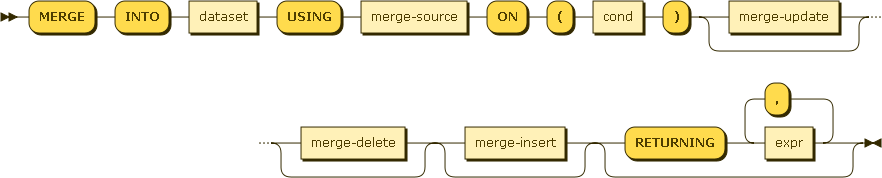
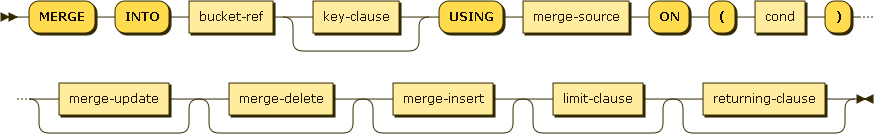
DML syntax targeting Beta / GA.

diff --git a/docs/n1ql-dml.md b/docs/n1ql-dml.md
@@ -1,145 +1,106 @@
-# N1QL&mdash;Query Language for N1NF (Non-1st Normal Form): DML
+# N1QL Query Language&mdash;DML
 
 * Status: DRAFT/PROPOSAL
 * Latest: [n1ql-dml](https://github.com/couchbaselabs/query/blob/master/docs/n1ql-dml.md)
-* Modified: 2013-07-30
+* Modified: 2013-12-15
 
-## Summary
+## Introduction
 
-N1QL is a query language for Couchbase, and is a continuation of
-[UNQL](https://github.com/couchbaselabs/tuqqedin/blob/master/docs/unql-2013.md).
-This document builds on the [N1QL Select
-spec](https://github.com/couchbaselabs/query/blob/master/docs/n1ql-select.md).
+N1QL ("nickel") is the query language from Couchbase. N1QL aims to
+meet the query needs of distributed document-oriented databases. This
+document specifies the syntax and semantics of the data modification
+statements in N1QL.
 
-This document describes the syntax and semantics of the DML statements
-in the language.
+*N1QL* stands for Non-1st Query Language. The name reflects the fact
+that the Couchbase document-oriented data model is based on [Non-1st
+Normal Form
+(N1NF)](http://en.wikipedia.org/wiki/Database_normalization#Non-first_normal_form_.28NF.C2.B2_or_N1NF.29).
 
-dml-stmt:
+## DML statements
+
+N1QL provides several data modification and transaction statements.
+
+*dml-stmt:*
 
 ![](diagram/dml-stmt.png)
 
-## Datasets
+## INSERT
 
-N1QL DML statements allow for mutations of entire documents, and of
-fragments within documents.  As such, N1QL DML statements use
-path-based datasets to identify the data to be mutated.  The dataset
-can be as simple as a bucket name, in which case entire documents will
-be mutated; or as complex as a nested path within each document, in
-which case the actual document fragments identified by the nested path
-will be mutated within each document.
+*insert:*
 
-dataset:
+![](diagram/insert.png)
 
-![](diagram/dataset.png)
+*bucket-ref:*
 
-## Result sets
+![](diagram/bucket-ref.png)
 
-N1QL DML statements are defined to return result sets in the same
-format as the SELECT statement.  If no RETURNING clause is specified,
-the result set is the empty array.  If a RETURNING clause is
-specified, it defines the fields of the JSON objects in the result
-set.
+*bucket-name:*
 
-## UPDATE
+![](diagram/bucket-name.png)
 
-The UPDATE statement has two additional clauses: UNSET and RENAME.
+*key-clause:*
 
-UNSET removes the entire field, including its name, from the
-containing object.
+![](diagram/key-clause.png)
 
-RENAME renames the field in the containing object.
+*value-clause:*
 
-update:
+![](diagram/value-clause.png)
 
-![](diagram/update.png)
+*returning-clause:*
+
+![](diagram/returning-clause.png)
 
 ## DELETE
 
-The DELETE statement can delete entire documents or fragments within
-documents.  When deleting fragments, the DELETE statement does not
-UNSET fields in the containing object.  Array-valued fields are left
-as empty arrays, and scalar-valued fields are set to NULL.  In other
-words, DELETE is always schema-safe for containing objects (unless
-NULL is a schema violation).
-
-delete:
+*delete:*
 
 ![](diagram/delete.png)
 
-## INSERT-VALUES
+*where-clause:*
 
-INSERT-VALUES inserts documents or fragments specified in its VALUES
-clause.
+![](diagram/where-clause.png)
 
-If the dataset identifies a bucket, each expr in VALUES is inserted as
-a new document in that bucket.
+*limit-clause:*
 
-If the dataset identifies a path within documents, the expr VALUES are
-evaluated in the context of each document and inserted as fragments at
-that location within each matching document.
+![](diagram/limit-clause.png)
 
-insert-values:
+## UPDATE
 
-![](diagram/insert-values.png)
+*update:*
 
-## INSERT-SELECT
+![](diagram/update.png)
 
-INSERT-SELECT is currently limited to bucket-scope inserts of full
-documents.  This is to prevent users from inadvertently running
-correlated subqueries.
+*set-clause:*
 
-insert-select:
+![](diagram/set-clause.png)
 
-![](diagram/insert-select.png)
+*path-for:*
+
+![](diagram/path-for.png)
+
+*unset-clause:*
+
+![](diagram/unset-clause.png)
 
 ## MERGE
 
-MERGE performs upserts, including deletes, on documents and fragments.
-
-merge:
+*merge:*
 
 ![](diagram/merge.png)
 
-merge-source:
+*merge-source:*
 
 ![](diagram/merge-source.png)
 
-### MERGE-UPDATE
-
-The MERGE-UPDATE clause has the additional ability to UNSET fields,
-which removes the entire field, including its name, from the
-containing object.
-
-merge-update:
+*merge-update:*
 
 ![](diagram/merge-update.png)
 
-### MERGE-DELETE
-
-The MERGE-DELETE clause can delete entire documents or fragments
-within documents.  When deleting fragments, the DELETE statement does
-not UNSET fields in the containing object.  Array-valued fields are
-left as empty arrays, and scalar-valued fields are set to NULL.  In
-other words, MERGE-DELETE is always schema-safe for containing objects
-(unless NULL is a schema violation).
-
-merge-delete:
+*merge-delete:*
 
 ![](diagram/merge-delete.png)
 
-### MERGE-INSERT
-
-MERGE-INSERT inserts documents or fragments specified in its VALUES
-clause.
-
-If the dataset identifies a bucket, each expr in VALUES is inserted as
-a new document in that bucket.
-
-If the dataset identifies a path within documents, the expr VALUES are
-evaluated in the context of each document and inserted as fragments at
-that location within each matching document.
-
-merge-insert:
+*merge-insert:*
 
 ![](diagram/merge-insert.png)
 
@@ -148,13 +109,35 @@ merge-insert:
 TRUNCATE deletes all the documents in a bucket. It cannot be rolled
 back, and it cannot be called within or participate in transactions.
 
-truncate:
+*truncate:*
 
 ![](diagram/truncate.png)
 
-bucket-name:
+## SELECT-FOR
 
-![](diagram/bucket-name.png)
+*select-for:*
+
+![](diagram/select-for.png)
+
+## Transactions
+
+### Start transaction
+
+*start:*
+
+![](diagram/start.png)
+
+### Commit
+
+*commit:*
+
+![](diagram/commit.png)
+
+### Rollback
+
+*rollback:*
+
+![](diagram/rollback.png)
 
 ## About this Document
 
@@ -191,30 +174,12 @@ Generator](http://railroad.my28msec.com/) ![](diagram/.png)
 * 2013-07-30 - Truncate
     * Required BUCKET after TRUNCATE, to make it more self-documenting
     * Clarified that TRUNCATE does not participate in transactions
+* 2013-12-15 - Target syntax
+    * Updated syntax targeting beta / production release
+    * DML statements apply to documents, not fragments
+    * Transaction START / COMMIT / ROLLBACK statements
 
 ### Open Issues
 
 This meta-section records open issues in this document, and will
 eventually disappear.
-
-1.  DELETE of array-terminated paths deletes elements inside the
-array, potentially leaving an empty containing array.  DELETE of
-scalar-terminated paths sets the field to NULL.  Is this consistent?
-
-1.  INSERT into array-terminated paths inserts into the array; INSERT
-into scalar-terminated paths converts the field to an array.  Should
-it be disallowed instead?  DELETE and INSERT should behave somewhat
-inversely, and certainly predictably and intuitively.
-
-1.  Should we provide UPDATE-APPEND?  This would be similar to
-INSERT-VALUES over array-valued datasets.  INSERT seems to be closer
-to the spirit of N1NF, i.e. embedded datasets are first-class
-entities.
-
-1.  Should we provide UPDATE SET VALUE() = expr for mutating entire
-documents?  It would violate the nice property that function calls are
-always read-only.
-
-1.  Should we require that datasets terminate in an array-valued
-field?  This would clarify / simplify most of the issues above.  Ditto
-for SELECT.
